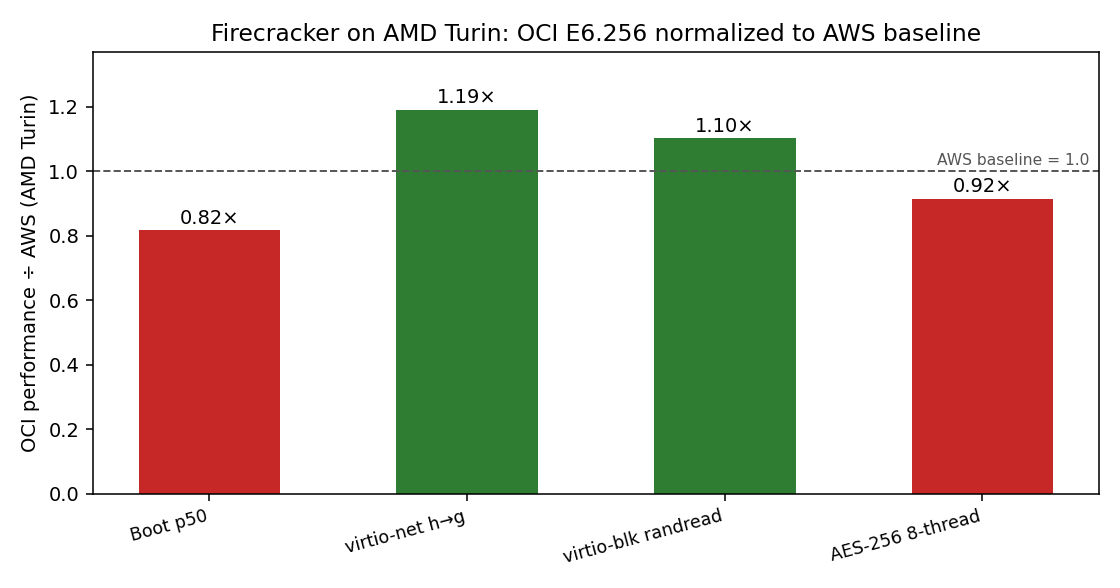
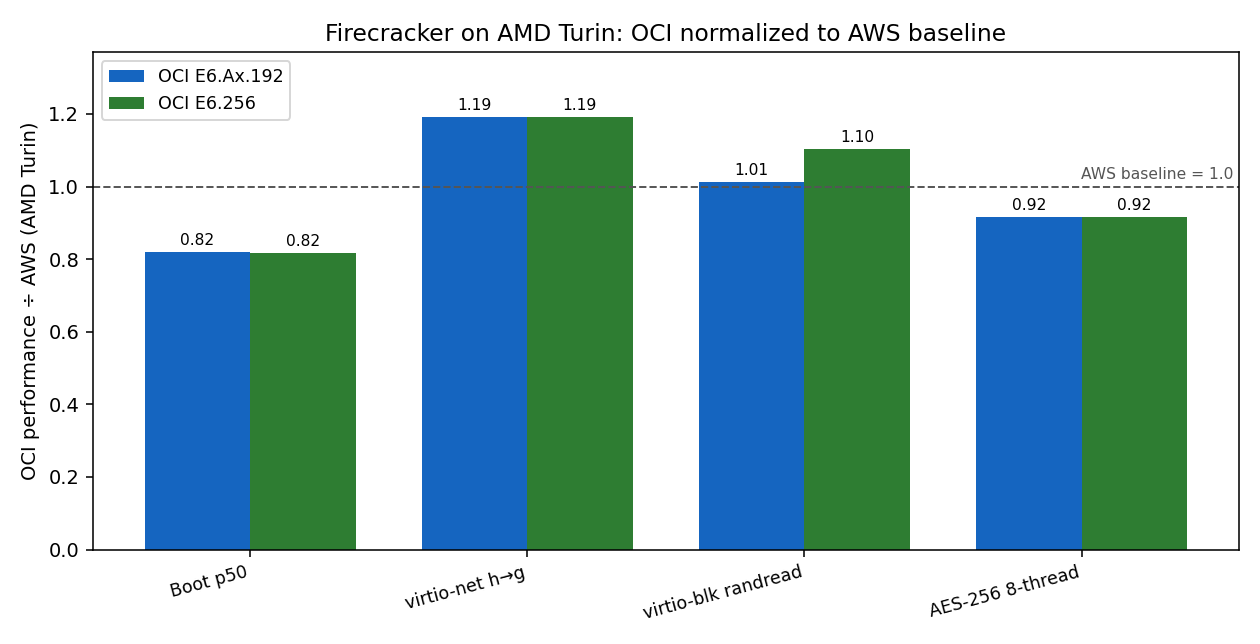
cross-cloud: add E6.Ax.192 alongside E6.256 (table + grouped bar chart)

diff --git a/report/gen_report.py b/report/gen_report.py
@@ -297,30 +297,37 @@ def cross_cloud_section(d, aws_val, aws_hosts, chart_path):
              "pair-geomean method used in the AWS study). This isolates the *cloud platform* (host "
              "kernel, VMM tuning, storage, power limits) on matched silicon.")
     L.append("")
-    L.append("| Metric | c8a (AWS) | m8a (AWS) | OCI E6.256 | OCI vs AWS geomean |")
-    L.append("|---|---|---|---|---|")
-    labels, norms = [], []
+    oci_ax = d.get("BM.Standard.E6.Ax.192", {}).get("results", {})
+    def dig(res, path):
+        o = res
+        for p in path: o = o.get(p, 0) if isinstance(o, dict) else 0
+        return o
+    L.append("| Metric | c8a (AWS) | m8a (AWS) | OCI E6.Ax.192 | OCI E6.256 | E6.Ax vs AWS | E6.256 vs AWS |")
+    L.append("|---|---|---|---|---|---|---|")
+    labels, norms_ax, norms_256 = [], [], []
     for label, path, hb in XCLOUD:
         a = aws_val(path)
         vc = _host_val(c8a, path) if c8a else 0
         vm = _host_val(m8a, path) if m8a else 0
-        o = oci
-        for p in path: o = o.get(p, 0) if isinstance(o, dict) else 0
-        r = (o / a) if hb else (a / o)   # >1 = OCI better
-        arrow = "OCI" if r >= 1.0 else "AWS"
-        L.append(f"| {label} | {vc:,.1f} | {vm:,.1f} | {o:,.1f} | {r:.2f}× ({arrow}) |")
-        labels.append(label.split(" (")[0]); norms.append(r)
+        oax = dig(oci_ax, path); o256 = dig(oci, path)
+        rax = (oax / a) if hb else (a / oax)      # >1 = OCI better
+        r256 = (o256 / a) if hb else (a / o256)
+        aa = "OCI" if rax >= 1.0 else "AWS"; a2 = "OCI" if r256 >= 1.0 else "AWS"
+        L.append(f"| {label} | {vc:,.1f} | {vm:,.1f} | {oax:,.1f} | {o256:,.1f} | "
+                 f"{rax:.2f}× ({aa}) | {r256:.2f}× ({a2}) |")
+        labels.append(label.split(" (")[0]); norms_ax.append(rax); norms_256.append(r256)
     L.append("")
-    L.append("*OCI vs AWS = normalized so >1.0 means OCI is better on that metric "
-             "(boot is inverted — lower latency is better). Ratio is against the geomean of c8a and m8a.*")
+    L.append("*Ratios normalized so >1.0 means OCI beats the AWS AMD baseline on that metric "
+             "(boot is inverted — lower latency is better). Baseline = geomean of c8a and m8a. "
+             "The two OCI Turin shapes track each other closely, as expected for identical silicon.*")
     L.append("")
-    # bar chart
-    made = _make_chart(labels, norms, chart_path)
+    # grouped bar chart (E6.Ax + E6.256 vs AWS baseline)
+    made = _make_chart(labels, norms_ax, norms_256, chart_path)
     if made:
         L.append(f"![OCI AMD Turin normalized to AWS AMD Turin]({os.path.basename(chart_path)})")
         L.append("")
-        L.append("*Bars are OCI E6.256 normalized to the AWS AMD baseline (dashed line = AWS = 1.0). "
-                 "Above the line = OCI advantage.*")
+        L.append("*Bars: OCI E6.Ax.192 and E6.256 normalized to the AWS AMD Turin baseline "
+                 "(dashed line = AWS = 1.0). Above the line = OCI advantage.*")
         L.append("")
     L.append("**Read:** OCI's AMD Turin leads on virtio-net and virtio-block but trails slightly on "
              "cold-start boot and full-socket AES — a mixed result, not a clean sweep. The boot and AES "
@@ -329,25 +336,30 @@ def cross_cloud_section(d, aws_val, aws_hosts, chart_path):
     L.append("")
     return "\n".join(L)
 
-def _make_chart(labels, norms, path):
+def _make_chart(labels, norms_ax, norms_256, path):
     try:
         import matplotlib
         matplotlib.use("Agg")
         import matplotlib.pyplot as plt
+        import numpy as np
     except Exception:
         return False
-    fig, ax = plt.subplots(figsize=(8, 4.2))
-    colors = ["#2e7d32" if v >= 1.0 else "#c62828" for v in norms]
-    bars = ax.bar(labels, norms, color=colors, width=0.55)
+    x = np.arange(len(labels)); w = 0.38
+    fig, ax = plt.subplots(figsize=(9, 4.6))
+    b1 = ax.bar(x - w/2, norms_ax, w, label="OCI E6.Ax.192", color="#1565c0")
+    b2 = ax.bar(x + w/2, norms_256, w, label="OCI E6.256", color="#2e7d32")
     ax.axhline(1.0, ls="--", color="#555", lw=1)
     ax.set_ylabel("OCI performance ÷ AWS (AMD Turin)")
-    ax.set_title("Firecracker on AMD Turin: OCI E6.256 normalized to AWS baseline")
-    ax.set_ylim(0, max(1.35, max(norms) * 1.15))
-    for b, v in zip(bars, norms):
-        ax.text(b.get_x() + b.get_width()/2, v + 0.02, f"{v:.2f}×", ha="center", fontsize=10)
-    ax.text(0.99, 1.02, "AWS baseline = 1.0", transform=ax.get_yaxis_transform(),
+    ax.set_title("Firecracker on AMD Turin: OCI normalized to AWS baseline")
+    ax.set_xticks(x); ax.set_xticklabels(labels, rotation=15, ha="right", fontsize=9)
+    ax.set_ylim(0, max(1.35, max(norms_ax + norms_256) * 1.15))
+    for bars in (b1, b2):
+        for b in bars:
+            ax.text(b.get_x() + b.get_width()/2, b.get_height() + 0.02,
+                    f"{b.get_height():.2f}", ha="center", fontsize=8)
+    ax.text(0.995, 1.02, "AWS baseline = 1.0", transform=ax.get_yaxis_transform(),
             ha="right", fontsize=8, color="#555")
-    plt.xticks(rotation=15, ha="right", fontsize=9)
+    ax.legend(fontsize=9, loc="upper left")
     plt.tight_layout()
     fig.savefig(path, dpi=140)
     plt.close(fig)

diff --git a/report/OCI-Firecracker-E5-vs-E6-report.md b/report/OCI-Firecracker-E5-vs-E6-report.md
@@ -83,17 +83,17 @@ For a Firecracker / serverless host the money metric is **cost per microVM-hour*
 
 Same silicon generation (AMD EPYC Turin/Zen5), different cloud. OCI **E6.256** (local NVMe) vs the two AWS Turin metal hosts from the companion AWS study — **c8a** (compute) and **m8a** (general-purpose), both EPYC 9R45, Turin + local NVMe. The two AWS hosts share the same silicon (they differ only in RAM class), so their per-guest numbers are near-identical; the ratio column compares OCI to their geometric mean (the same pair-geomean method used in the AWS study). This isolates the *cloud platform* (host kernel, VMM tuning, storage, power limits) on matched silicon.
 
-| Metric | c8a (AWS) | m8a (AWS) | OCI E6.256 | OCI vs AWS geomean |
-|---|---|---|---|---|
-| Boot p50 (ms) | 99.7 | 100.5 | 122.5 | 0.82× (AWS) |
-| virtio-net h→g (Gbps) | 45.4 | 40.0 | 50.7 | 1.19× (OCI) |
-| virtio-blk randread (IOPS) | 209,482.0 | 254,866.0 | 255,019.0 | 1.10× (OCI) |
-| AES-256 8-thread (MiB/s) | 9,482.8 | 9,478.8 | 8,681.6 | 0.92× (AWS) |
+| Metric | c8a (AWS) | m8a (AWS) | OCI E6.Ax.192 | OCI E6.256 | E6.Ax vs AWS | E6.256 vs AWS |
+|---|---|---|---|---|---|---|
+| Boot p50 (ms) | 99.7 | 100.5 | 122.3 | 122.5 | 0.82× (AWS) | 0.82× (AWS) |
+| virtio-net h→g (Gbps) | 45.4 | 40.0 | 50.8 | 50.7 | 1.19× (OCI) | 1.19× (OCI) |
+| virtio-blk randread (IOPS) | 209,482.0 | 254,866.0 | 233,852.0 | 255,019.0 | 1.01× (OCI) | 1.10× (OCI) |
+| AES-256 8-thread (MiB/s) | 9,482.8 | 9,478.8 | 8,676.2 | 8,681.6 | 0.92× (AWS) | 0.92× (AWS) |
 
-*OCI vs AWS = normalized so >1.0 means OCI is better on that metric (boot is inverted — lower latency is better). Ratio is against the geomean of c8a and m8a.*
+*Ratios normalized so >1.0 means OCI beats the AWS AMD baseline on that metric (boot is inverted — lower latency is better). Baseline = geomean of c8a and m8a. The two OCI Turin shapes track each other closely, as expected for identical silicon.*
 
 ![OCI AMD Turin normalized to AWS AMD Turin](oci-vs-aws-amd-turin.png)
 
-*Bars are OCI E6.256 normalized to the AWS AMD baseline (dashed line = AWS = 1.0). Above the line = OCI advantage.*
+*Bars: OCI E6.Ax.192 and E6.256 normalized to the AWS AMD Turin baseline (dashed line = AWS = 1.0). Above the line = OCI advantage.*
 
 **Read:** OCI's AMD Turin leads on virtio-net and virtio-block but trails slightly on cold-start boot and full-socket AES — a mixed result, not a clean sweep. The boot and AES gaps are small and plausibly reflect host-kernel/VMM tuning and per-SKU clock/power-limit differences (OCI 9J45 vs AWS 9R45 custom Turin parts), not an architectural difference.
